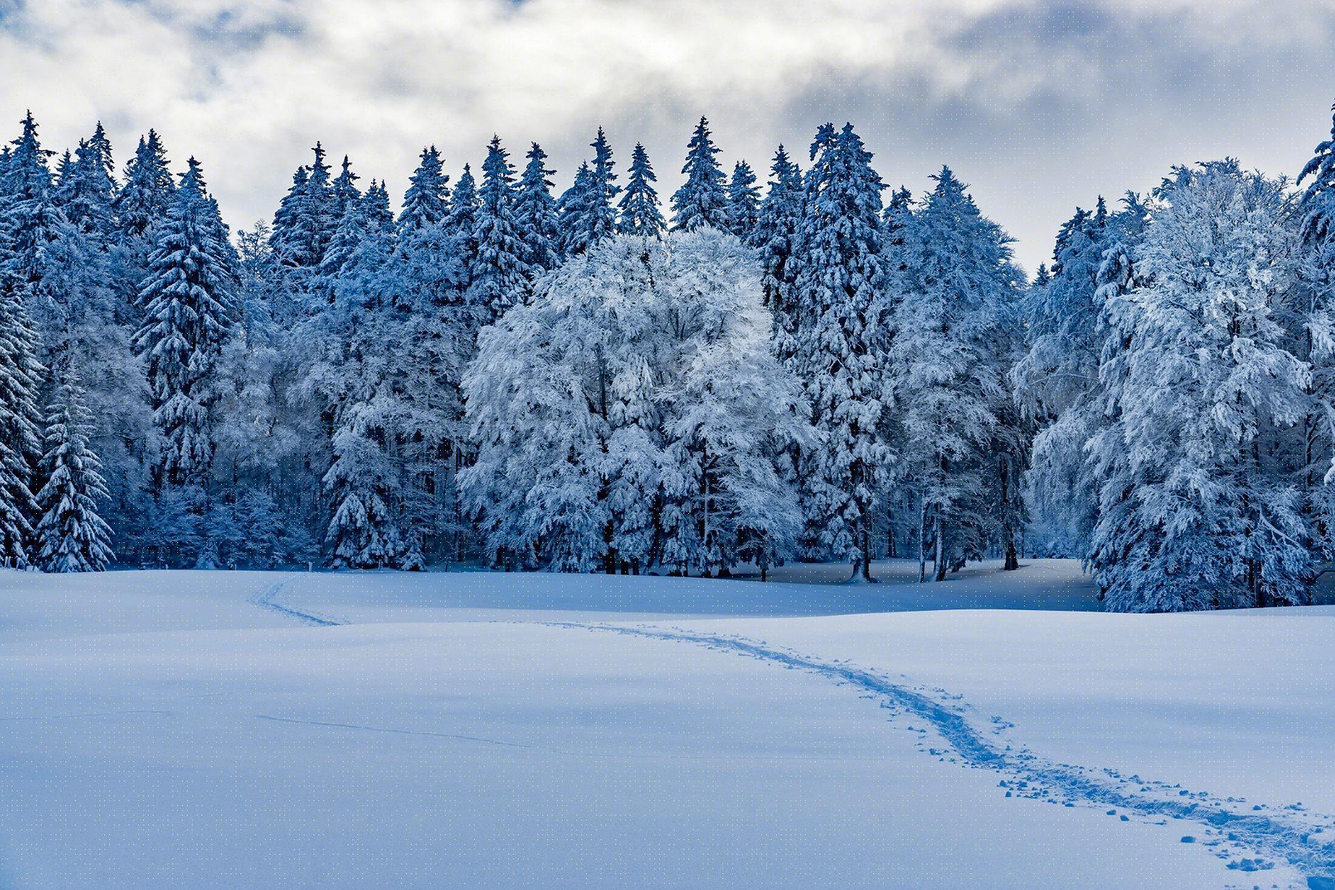
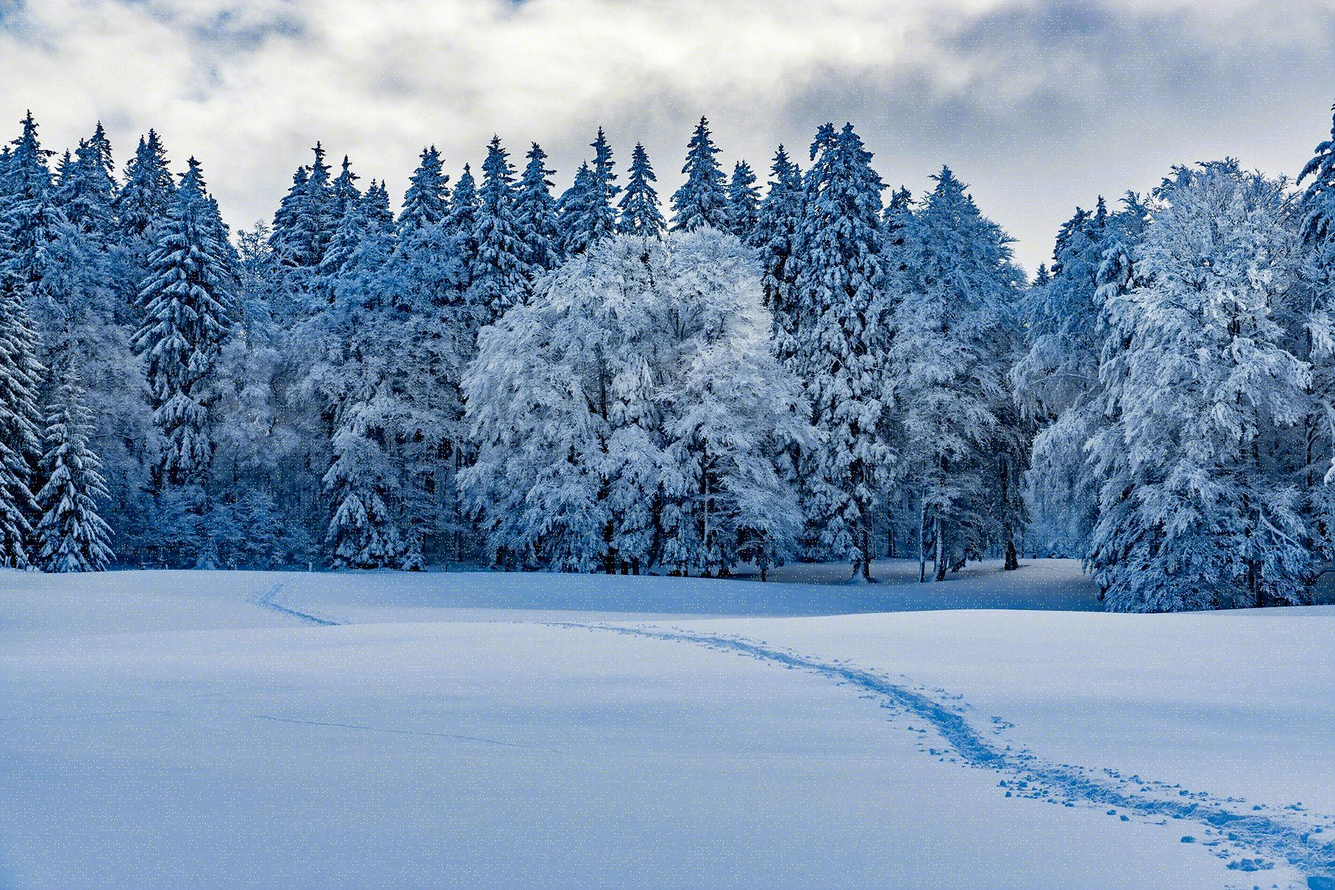
building of point series from image is modified

diff --git a/src/main/java/com/tolmic/DigitalWatermarks.java b/src/main/java/com/tolmic/DigitalWatermarks.java
@@ -19,7 +19,7 @@ public final class DigitalWatermarks {
     //#region local variables
     private static final double q = 10;
     private static final int c = 3;
-    private static final int r = 100;
+    private static final int r = 200;
 
     private static final String INITIAL_IMAGE_PATH = (new File("").getAbsolutePath()) + "\\src\\main\\resources\\imgaes\\image.jpg";
     private static final String IMAGE_WITH_INFORMATION_PATH = (new File("").getAbsolutePath()) + "\\src\\main\\resources\\imgaes\\informationImage.jpg";
@@ -70,12 +70,18 @@ public final class DigitalWatermarks {
     private static List<Point> getPointSeries(int w, int h) {
         List<Point> points = new ArrayList<>();
 
-        int step = 2 * c + 1;
+        int step = c + 1;
 
-        for (int y = c; y < h - c - 1; y += step) {
+        int i = 0;
+        for (int y = c; y < h - c - 1; y += step + 1) {
+            int j = 0;
             for (int x = c; x < w - c - 1; x += step) {
-                points.add(new Point(x, y));
+                points.add(new Point(x + (i % 2 != 0 ? 1 : 0), y + (j % 2 != 0 ? 1 : 0)));
+
+                j += 1;
             }
+
+            i += 1;
         }
 
         return points;
